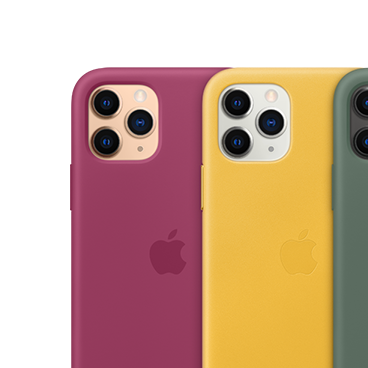
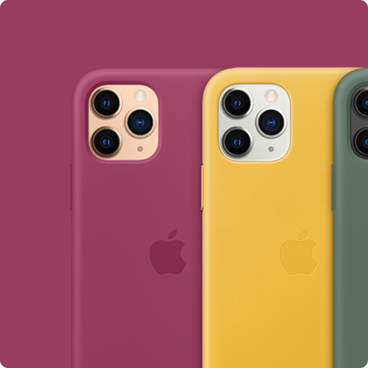
added separate FC Category, uploaded new images

diff --git a/src/components/Categories/Categories.tsx b/src/components/Categories/Categories.tsx
@@ -1,10 +1,10 @@
 import React, { useEffect, useState } from 'react';
-import { Link } from 'react-router-dom';
 import s from './Categories.module.scss';
 import img_phones from '../../assets/img/categories_phones.png';
 import img_tablets from '../../assets/img/categories_tablets.png';
 import img_accessories from '../../assets/img/categories_accessories.png';
 import { getPhones } from '../../api/phones';
+import { Category } from '../Category/Category';
 
 export const Categories: React.FC = () => {
   const [phonesLength, setPhonesLength] = useState(0);
@@ -25,83 +25,26 @@ export const Categories: React.FC = () => {
 
   return (
     <ul className={s.categories}>
-      <li className={s.category}>
-        <div className={s.category__content}>
-          <Link
-            to="/phones"
-            className={`${s.category__image_container} ${s.category__image_container__img1}`}
-          >
-            <img
-              src={img_phones}
-              className={s.category__image}
-              alt="phones"
-            />
-          </Link>
+      <Category
+        categoryName="phones"
+        img={img_phones}
+        categoryTitle="Mobile Phones"
+        quantity={phonesLength}
+      />
 
-          <Link
-            to="/phones"
-            className={s.category__title}
-          >
-            Mobile Phones
-          </Link>
+      <Category
+        categoryName="tablets"
+        img={img_tablets}
+        categoryTitle="Tablets"
+        quantity={0}
+      />
 
-          <span className={s.category__quantity}>
-            {`${phonesLength} models`}
-          </span>
-        </div>
-      </li>
-
-      <li className={s.category}>
-        <div className={s.category__content}>
-          <Link
-            to="/tablets"
-            className={`${s.category__image_container} ${s.category__image_container__img2}`}
-          >
-            <img
-              src={img_tablets}
-              className={s.category__image}
-              alt="tablets"
-            />
-          </Link>
-
-          <Link
-            to="/tablets"
-            className={s.category__title}
-          >
-            Tablets
-          </Link>
-
-          <span className={s.category__quantity}>
-            0 models
-          </span>
-        </div>
-      </li>
-
-      <li className={s.category}>
-        <div className={s.category__content}>
-          <Link
-            to="/accessories"
-            className={`${s.category__image_container} ${s.category__image_container__img3}`}
-          >
-            <img
-              src={img_accessories}
-              className={s.category__image}
-              alt="accessories"
-            />
-          </Link>
-
-          <Link
-            to="/accessories"
-            className={s.category__title}
-          >
-            Accessories
-          </Link>
-
-          <span className={s.category__quantity}>
-            0 models
-          </span>
-        </div>
-      </li>
+      <Category
+        categoryName="accessories"
+        img={img_accessories}
+        categoryTitle="Accessories"
+        quantity={0}
+      />
     </ul>
   );
 };

diff --git a/src/components/Categories/Categories.module.scss b/src/components/Categories/Categories.module.scss
@@ -1,5 +1,4 @@
 @import '../../styles/mixins';
-@import '../../styles/vars';
 
 .categories {
   display: flex;
@@ -10,72 +9,5 @@
   @include onTablet {
     flex-direction: row;
     gap: 16px;
-  }
-}
-
-.category {
-  margin-bottom: 24px;
-
-  &:last-child {
-    margin-bottom: 0;
-  }
-
-  @include onTablet {
-    margin-bottom: 0;
-  }
-
-  &__image_container {
-    display: block;
-    width: 100%;
-    height: 100%;
-    border-radius: $radius;
-    margin-bottom: 24px;
-    transition: box-shadow 0.2s ease;
-
-    &:hover {
-      box-shadow: 0px 2px 16px rgba(0, 0, 0, 0.5);
-    }
-
-    @each $number, $color, $padding_top, $padding_left in $img-container-info {
-      &__img#{$number} {
-        background-color: $color;
-        padding-top: $padding_top;
-        padding-left: $padding_left;
-      }
-    }
-
-    @include onTablet {
-      width: 100%;
-      height: 100%;
-      min-width: 187px;
-      min-height: 187px;
-    }
-
-    @include onDesktop {
-      max-width: 368px;
-      max-height: 368px;
-    }
-  }
-
-  &__image {
-    display: block;
-    width: 100%;
-    border-bottom-right-radius: $radius;
-  }
-
-  &__title {
-    font-weight: 700;
-    font-size: 20px;
-    line-height: 26px;
-    color: $primary-color;
-    margin-bottom: 4px;
-  }
-
-  &__quantity {
-    display: block;
-    font-weight: 500;
-    font-size: 14px;
-    line-height: 21px;
-    color: $secondary-color;
   }
 }

diff --git a/src/components/Category/Category.module.scss b/src/components/Category/Category.module.scss
@@ -1,0 +1,60 @@
+@import '../../styles/mixins';
+@import '../../styles/vars';
+
+.category {
+  margin-bottom: 24px;
+
+  &:last-child {
+    margin-bottom: 0;
+  }
+
+  @include onTablet {
+    margin-bottom: 0;
+  }
+
+  &__image_container {
+    display: block;
+    width: 100%;
+    height: 100%;
+    border-radius: $radius;
+    margin-bottom: 24px;
+    transition: box-shadow 0.2s ease;
+
+    &:hover {
+      box-shadow: 0px 2px 16px rgba(0, 0, 0, 0.5);
+    }
+
+    @include onTablet {
+      width: 100%;
+      height: 100%;
+      min-width: 187px;
+      min-height: 187px;
+    }
+
+    @include onDesktop {
+      max-width: 368px;
+      max-height: 368px;
+    }
+  }
+
+  &__image {
+    display: block;
+    width: 100%;
+  }
+
+  &__title {
+    font-weight: 700;
+    font-size: 20px;
+    line-height: 26px;
+    color: $primary-color;
+    margin-bottom: 4px;
+  }
+
+  &__quantity {
+    display: block;
+    font-weight: 500;
+    font-size: 14px;
+    line-height: 21px;
+    color: $secondary-color;
+  }
+}

diff --git a/src/components/Category/Category.tsx b/src/components/Category/Category.tsx
@@ -1,0 +1,45 @@
+import React from 'react';
+import { Link } from 'react-router-dom';
+import s from './Category.module.scss';
+
+type Props = {
+  categoryName: string,
+  img: string,
+  categoryTitle: string,
+  quantity: number,
+};
+
+export const Category: React.FC<Props> = ({
+  categoryName,
+  img,
+  categoryTitle,
+  quantity,
+}) => {
+  return (
+    <li className={s.category}>
+      <div className={s.category__content}>
+        <Link
+          to={`/${categoryName}`}
+          className={s.category__image_container}
+        >
+          <img
+            src={img}
+            className={s.category__image}
+            alt={categoryName}
+          />
+        </Link>
+
+        <Link
+          to={`/${categoryName}`}
+          className={s.category__title}
+        >
+          {categoryTitle}
+        </Link>
+
+        <span className={s.category__quantity}>
+          {`${quantity} models`}
+        </span>
+      </div>
+    </li>
+  );
+};

diff --git a/src/styles/_vars.scss b/src/styles/_vars.scss
@@ -19,11 +19,6 @@ $desk-side-padding: 32px;
 $desk-header-swiper-height: 400px;
 $tab-header-swiper-height: 200px;
 $mob-header-swiper-height: 320px;
-
-$img-container-info:
-  1 #6d6474 40px 49px,
-  2 #8d8d92 20px 21px,
-  3 #973d5f 0 0;
   
 $slider-button-width: 32px;
 $slider-mob-height: 440px;

diff --git a/src/components/Category/index.ts b/src/components/Category/index.ts
@@ -1,0 +1,1 @@
+export { Category } from './Category';
